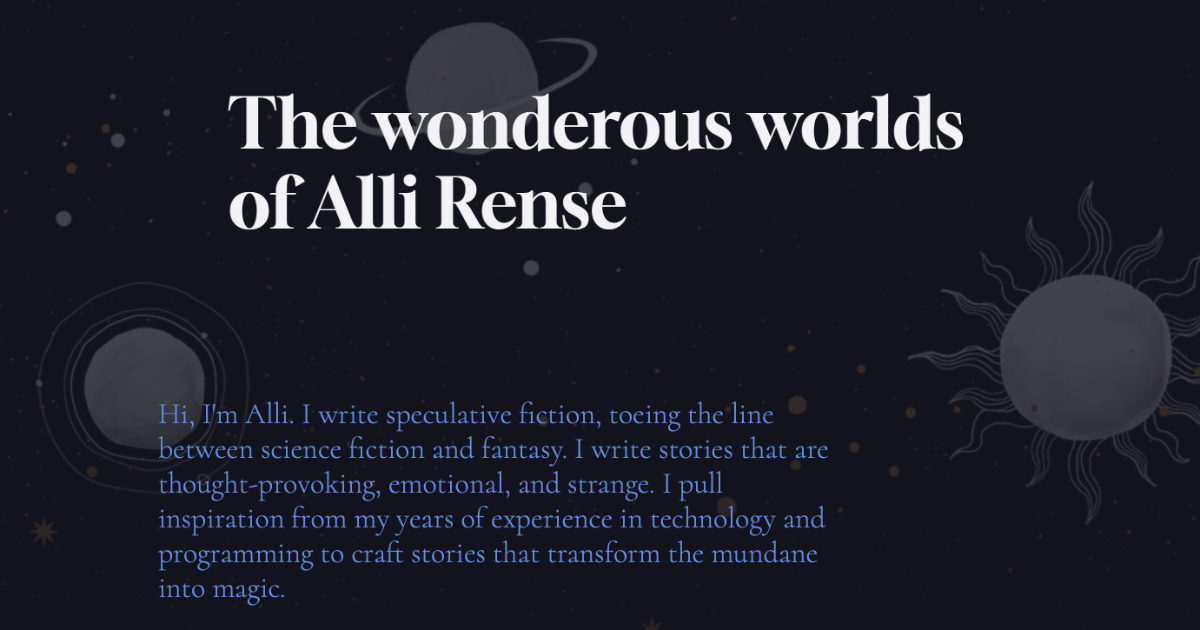
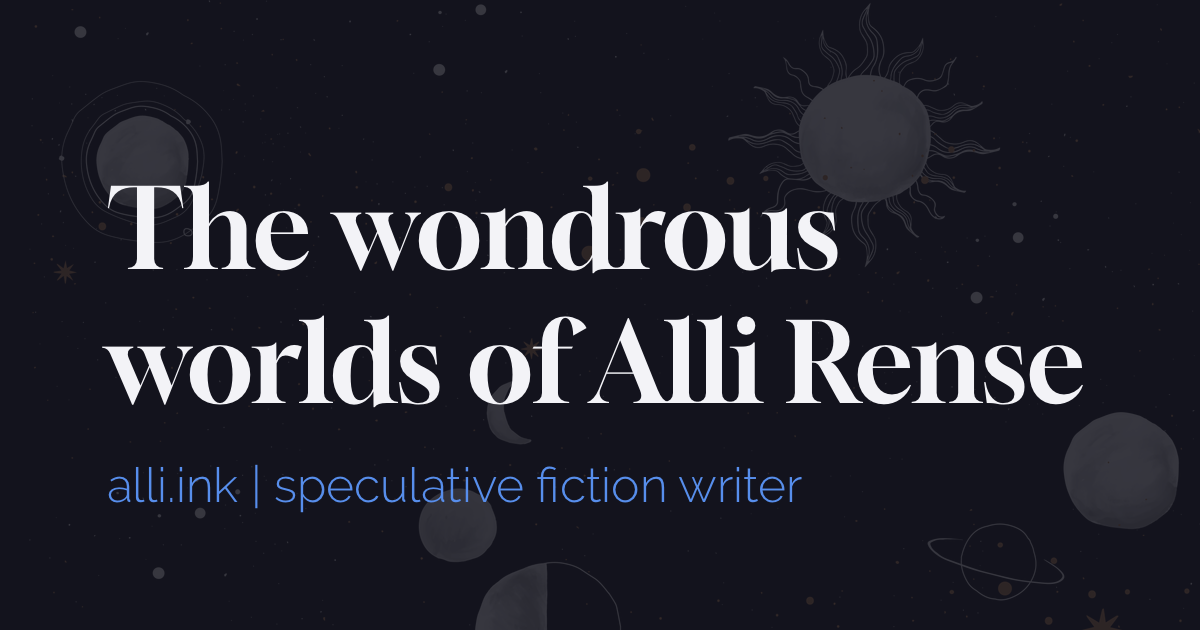
Fix embarrassing misspelling, update ogimage

diff --git a/index.html b/index.html
@@ -21,7 +21,7 @@
     <section class="section hero">
         <div class="content">
         <header>
-        <h1>The wonderous worlds of Alli Rense</h1>
+        <h1>The wondrous worlds of Alli Rense</h1>
         </header>
         </div>
     </section>
@@ -76,12 +76,12 @@
                 <p>As a mom with a full-time job as a software startup cofounder, finding time to write can be challenging. Thankfully, I have an amazingly supportive husband who does most of the cooking. I live in Michigan near Lake Michigan with my husband, two kids, dog, and cat. An unabashed cat lover, I also enjoy knitting, walking, traveling, art, and reading lots and lots of books.</p>
             </div>
             <div class="picture">
-                <img src="images/photoofalli.jpg"/ alt="Photo of Alli Treman, a blonde white woman against a gray background">
+                <img src="images/photoofalli.jpg" alt="Photo of Alli, a blonde white woman against a gray background">
             </div>
         </div>
         <div class="content cat">
             <div class="picture">
-                <img src="images/photoofsashimicat.jpg"/ alt="Photo of Sashimi, a fluffy light orange cat with books in the background">
+                <img src="images/photoofsashimicat.jpg" alt="Photo of Sashimi, a fluffy light orange cat with books in the background">
             </div>
             <div class="text">
             <h2>Meet Sashimi</h2>
